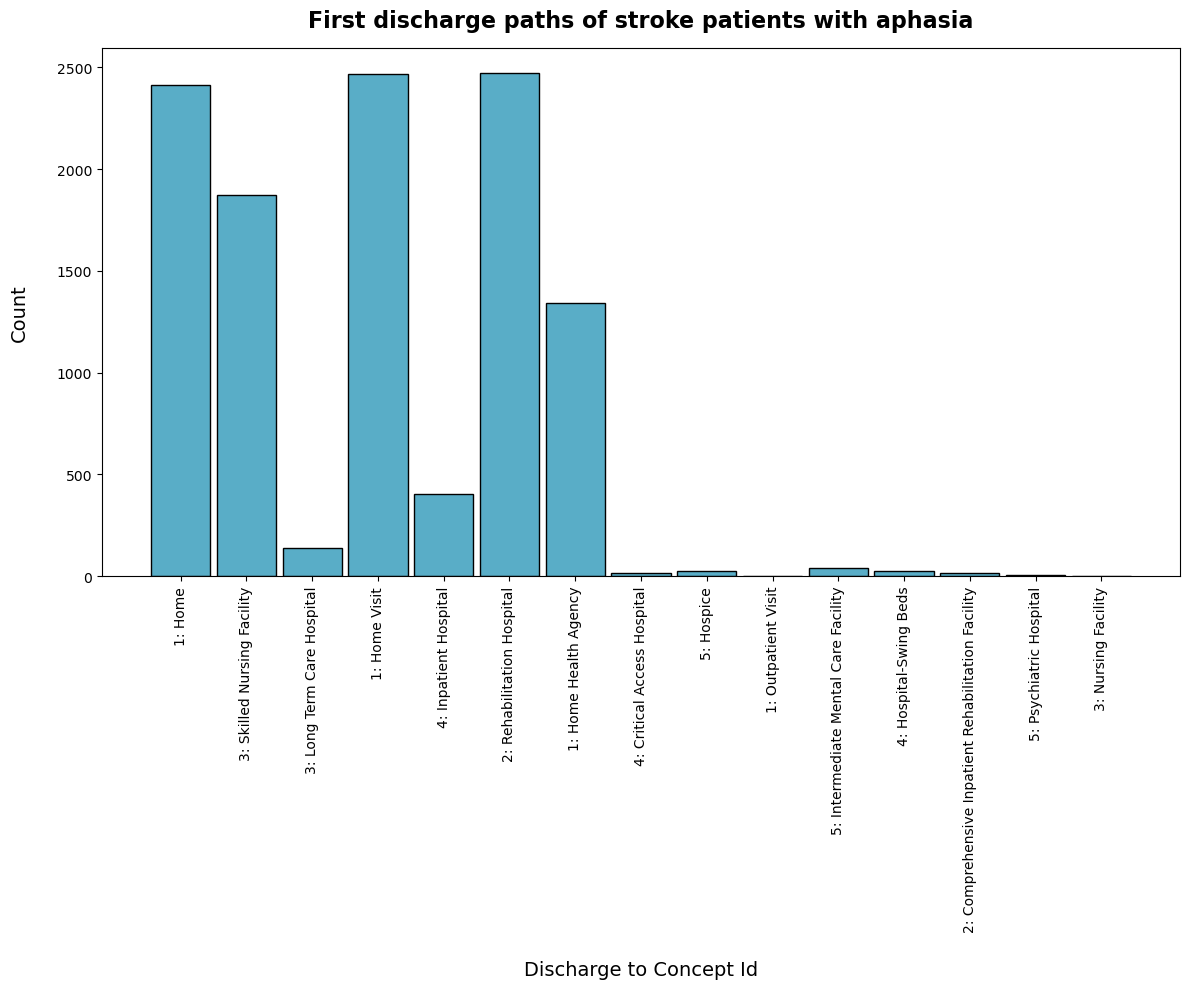
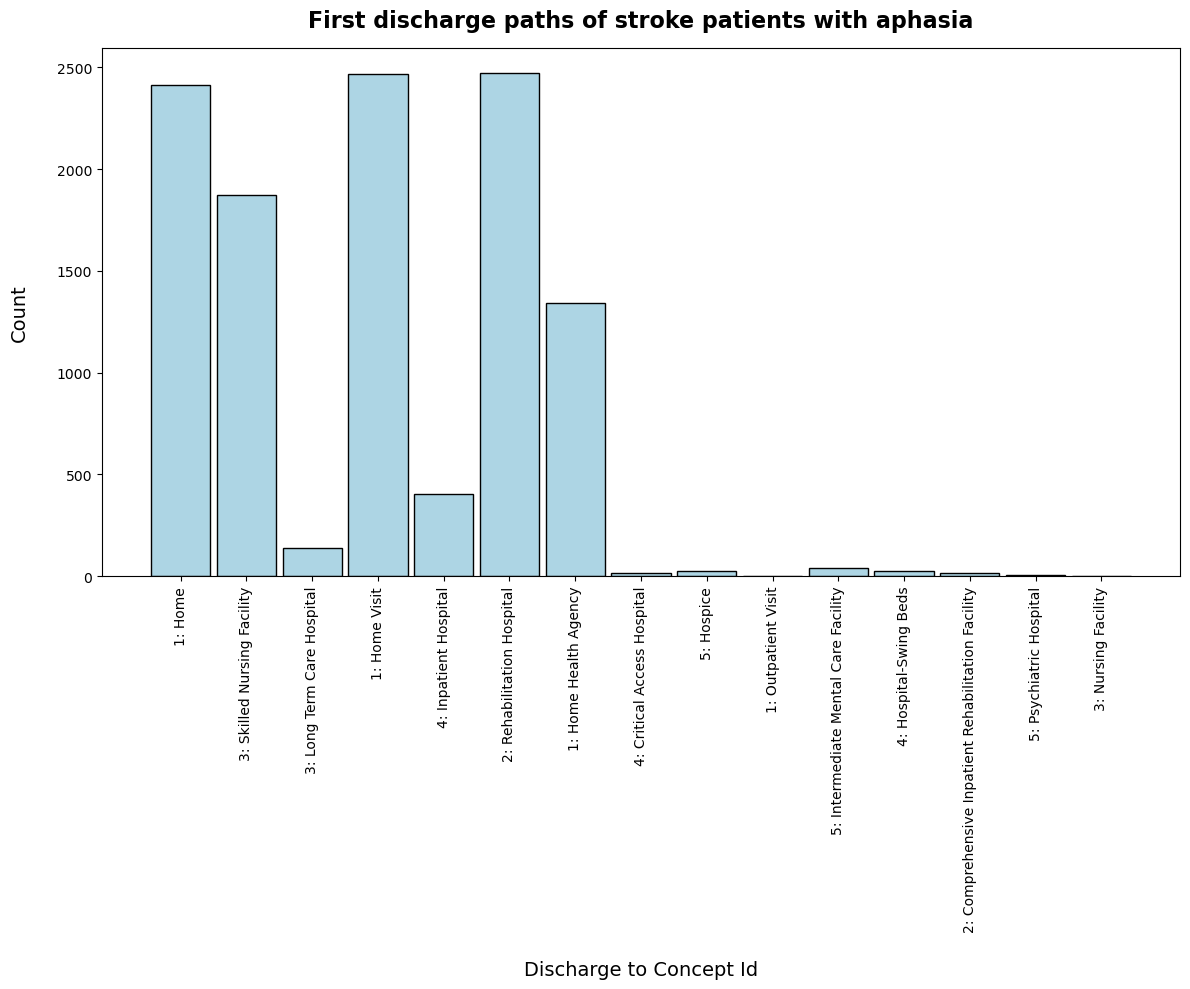
plot 3 update

Changed region(s): [[0.1244, 0.0607, 0.5286, 0.6067], [0.684, 0.5763, 0.7773, 0.6067], [0.5908, 0.5763, 0.6218, 0.6067]]

diff --git a/src/plot_first_discharge.py b/src/plot_first_discharge.py
@@ -27,11 +27,13 @@ print(
     f"There are {len(first_discharge)} types of discharge types for all stroke patients"
 )
 
-# Plot.
-fig, ax = plt.subplots()
-sns.histplot(data=df, x="discharge_to_concept_id", shrink=0.9)
-ax.tick_params(axis="x", rotation=90)
-plt.title("First discharge paths of all stroke patients")
+# Plot 1
+plt.figure(figsize=(12,10))
+sns.histplot(data=df, x="discharge_to_concept_id", color="#2292B5", shrink=0.9)
+plt.xticks(rotation=90)
+plt.xlabel("Discharge to Concept Id", fontsize=14, labelpad=20)
+plt.ylabel("Count", fontsize=14, labelpad=20)
+plt.title("First discharge paths of all stroke patients", fontsize=16, weight="bold", pad=15, loc="center")
 plt.tight_layout()
-plt.savefig("figs/first_discharge.png")
+plt.savefig("figs/first_discharge.png", bbox_inches="tight")
 plt.show()

diff --git a/src/plot_first_discharge_aphasia_TRUE.py b/src/plot_first_discharge_aphasia_TRUE.py
@@ -38,7 +38,7 @@ df["discharge_grouped"] = df["discharge_grouped"].map(
 
 # Plot 1
 plt.figure(figsize=(12,10))
-sns.histplot(data=df, x="discharge_to_concept_id", color="#2292B5", shrink=0.9)
+sns.histplot(data=df, x="discharge_to_concept_id", color="#92C8DB", shrink=0.9)
 plt.xticks(rotation=90)
 plt.xlabel("Discharge to Concept Id", fontsize=14, labelpad=20)
 plt.ylabel("Count", fontsize=14, labelpad=20)
